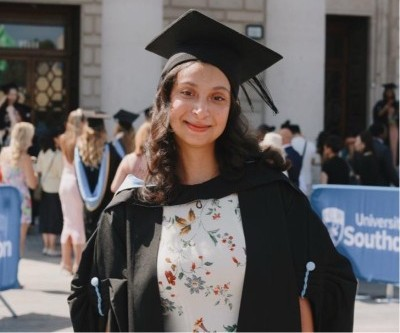
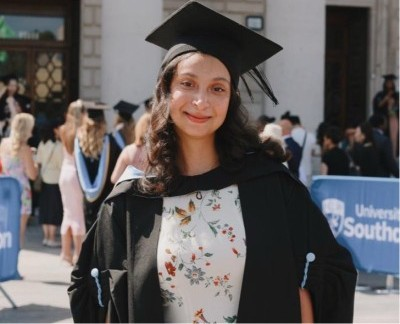
...

diff --git a/index.html b/index.html
@@ -1,0 +1,119 @@
+<!doctype html>
+<html lang="en-GB">
+<head>
+  <meta charset="utf-8">
+  <meta name="viewport" content="width=device-width, initial-scale=1">
+  <title>The Grenfell Curriculum | Memory, justice and education after Grenfell</title>
+  <meta name="description" content="The public landing page for The Grenfell Curriculum, an ongoing community-engaged education project supporting teaching about Grenfell.">
+  <meta name="theme-color" content="#008a59">
+  <link rel="preconnect" href="https://fonts.googleapis.com">
+  <link rel="preconnect" href="https://fonts.gstatic.com" crossorigin>
+  <link rel="stylesheet" href="assets/css/styles.css">
+</head>
+<body class="page-home">
+<header class="site-header">
+  <div class="header-inner">
+    <a class="brand" href="" aria-label="The Grenfell Curriculum home">
+      <span class="brand-title">The Grenfell Curriculum</span>
+        <span class="brand-tagline">Memory, justice and education after Grenfell</span>
+    </a>
+    <button class="nav-toggle" type="button" aria-controls="site-navigation" aria-expanded="false" data-nav-toggle>
+      <span>Menu</span><span aria-hidden="true"></span>
+    </button>
+    <nav class="site-nav" id="site-navigation" aria-label="Primary navigation" data-site-nav>
+      <ul><li><a href="" aria-current="page">Home</a></li><li><a href="about/">About</a></li><li><a href="principles/">Principles</a></li><li><a href="cpd/">CPD</a></li><li><a href="resources/">Resources</a></li><li><a href="contact/">Contact</a></li></ul>
+    </nav>
+  </div>
+</header>
+  <main id="main">
+
+    <section class="page-hero">
+      <div class="container hero-grid">
+        <div class="hero-copy">
+          <h1>The Grenfell Curriculum</h1>
+          <p class="lede">Supporting thoughtful, respectful and justice-centred teaching about Grenfell.</p>
+          <p>The project brings together community-engaged research, teacher professional development, classroom resources, policy work and public education.</p>
+          <div class="actions">
+            <a class="btn primary" href="https://canvas.instructure.com/courses/13952145/modules" target="_blank" rel="noopener noreferrer">Access the teacher CPD</a>
+            <a class="btn secondary" href="resources/">Browse resources</a>
+          </div>
+          </div>
+        </div>
+      </div>
+    </section>
+
+    <section class="section compact">
+      <div class="container">
+        <div class="section-title">
+          <h2>A project about education, memory and justice</h2>
+          <p>The Grenfell Tower fire took place on 14 June 2017 in North Kensington, London. The Grenfell Curriculum starts from the understanding that Grenfell is not only a past tragedy, but an ongoing matter of memory, justice, accountability, housing, regulation, inequality, community and education.</p>
+        </div>
+        <div class="grid three">
+          <article class="card feature-card">
+            <h3>About the project</h3>
+            <p>Find out how the project developed, who is involved and how its work is organised.</p>
+            <a class="btn text-link" href="about/">Read about the project →</a>
+          </article>
+          <article class="card feature-card">
+            <h3>Principles</h3>
+            <p>Explore the educational and ethical foundations for teaching about Grenfell with care.</p>
+            <a class="btn text-link" href="principles/">Explore the principles →</a>
+          </article>
+          <article class="card feature-card">
+            <h3>Resources</h3>
+            <p>Search the open repository for reports, guides, lesson materials and CPD outputs.</p>
+            <a class="btn text-link" href="resources/">Browse resources →</a>
+          </article>
+        </div>
+      </div>
+    </section>
+
+    <section class="section alt" aria-labelledby="latest-news-heading">
+      <div class="container">
+        <div class="section-title">
+          <span class="eyebrow">News</span>
+          <h2 id="latest-news-heading">Selected updates</h2>
+        </div>
+        <div class="grid four" data-news-list aria-live="polite"></div>
+        <noscript>
+          <p class="note-box">News cards require JavaScript. Key project outputs are also listed on the resources page.</p>
+        </noscript>
+      </div>
+    </section>
+
+  </main>
+  <footer class="site-footer">
+  <div class="container">
+    <div class="footer-grid">
+      <div>
+        <h2>The Grenfell Curriculum</h2>
+        <p>Memory, justice and education after Grenfell.</p>
+        <p><strong>General enquiries:</strong> <a href="mailto:[email redacted]">[email redacted]</a></p>
+      </div>
+      <div>
+        <h3>Site links</h3>
+        <ul class="footer-links">
+          <li><a href="about/">About the project</a></li>
+          <li><a href="principles/">Principles</a></li>
+          <li><a href="cpd/">Teacher CPD</a></li>
+          <li><a href="resources/">Open resources</a></li>
+          <li><a href="contact/">Contact</a></li>
+        </ul>
+      </div>
+      <div>
+        <h3>Statements</h3>
+        <ul class="footer-links">
+          <li><a href="contact/#accessibility">Accessibility</a></li>
+          <li><a href="contact/#privacy">Privacy</a></li>
+          <li><a href="contact/#copyright">Copyright</a></li>
+        </ul>
+      </div>
+    </div>
+    <div class="footer-bottom">
+      <p>© <span data-current-year></span> The Grenfell Curriculum. Developed with acknowledgement of community contributors, partners and funders. Partner and funder logos should be added with permission.</p>
+    </div>
+  </div>
+</footer>
+  <script src="assets/js/main.js" defer></script>
+</body>
+</html>